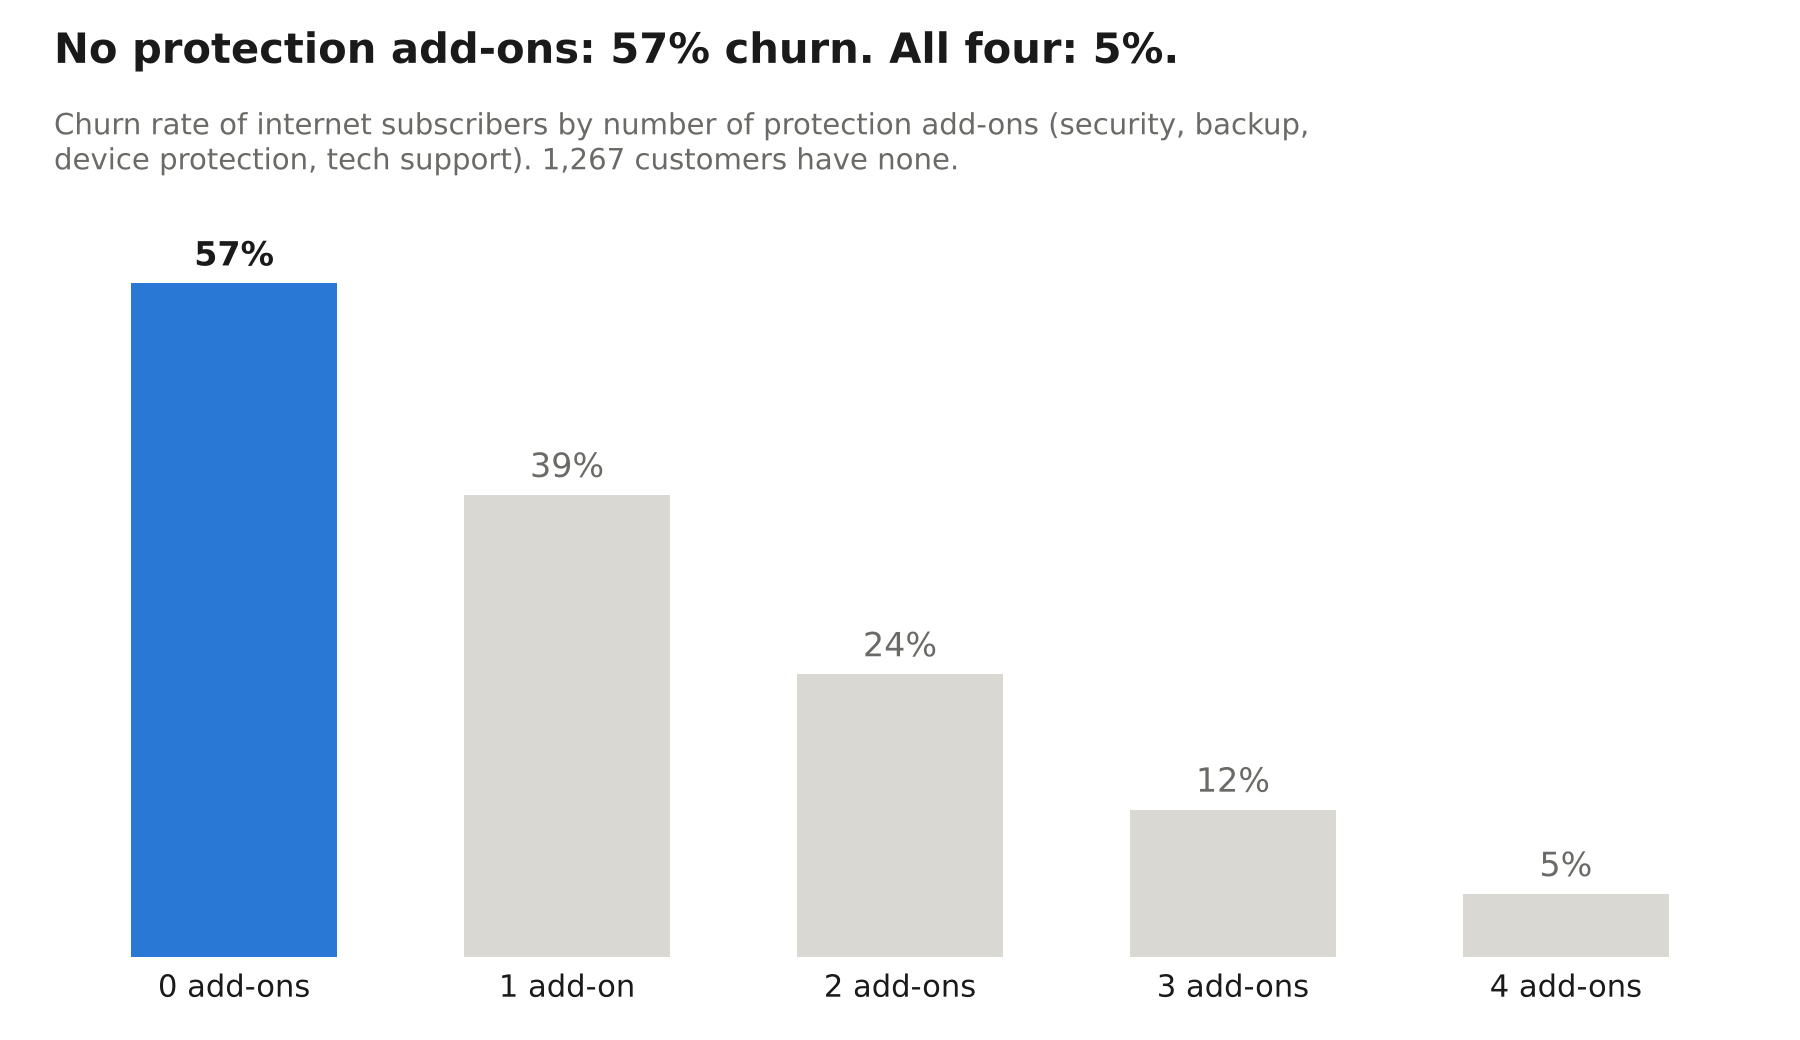
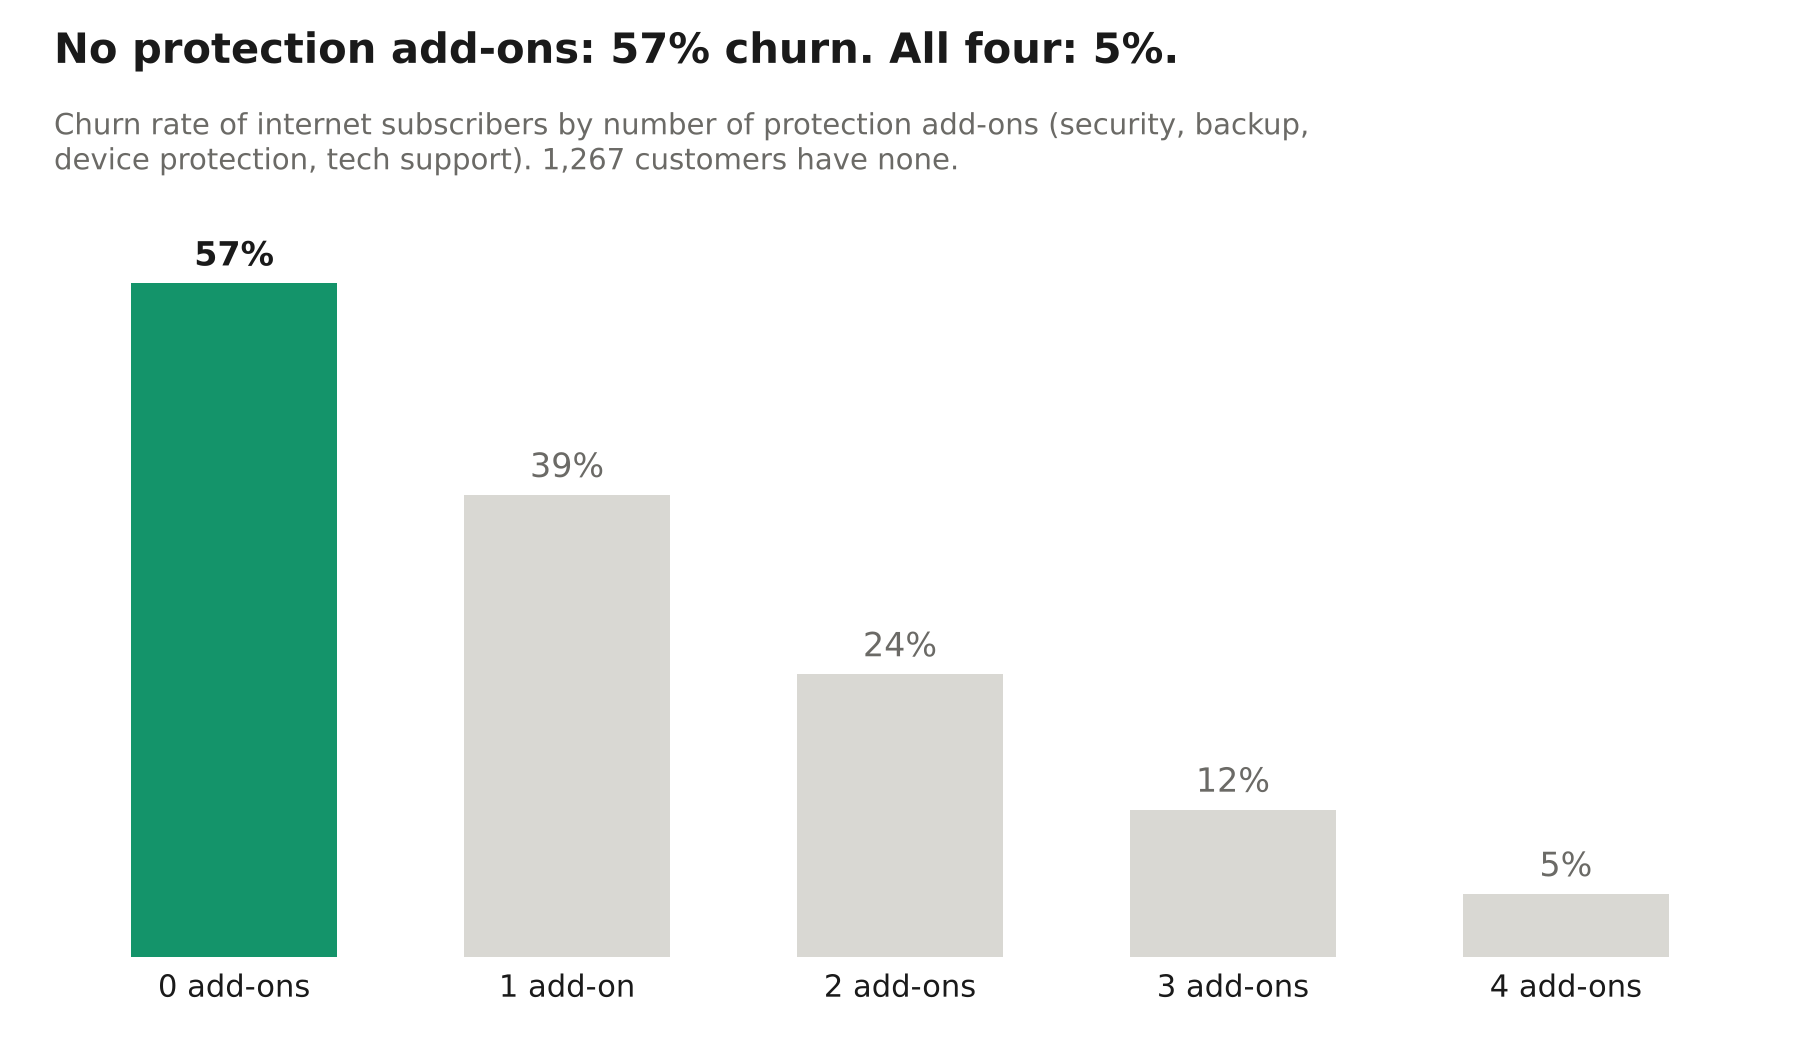
Use teal highlight colour in charts

Changed region(s): [[0.0622, 0.2462, 0.1867, 0.9231]]

diff --git a/scripts/make_charts.py b/scripts/make_charts.py
@@ -9,7 +9,7 @@ ROOT = Path(__file__).resolve().parents[1]
 RES, OUT = ROOT / "results", ROOT / "charts"
 OUT.mkdir(exist_ok=True)
 SURFACE, INK, INK2 = "#ffffff", "#1a1a1a", "#6b6a66"
-HIGHLIGHT, CONTEXT = "#2a78d6", "#d9d8d3"
+HIGHLIGHT, CONTEXT = "#14946a", "#d9d8d3"
 plt.rcParams.update({"font.family": "DejaVu Sans", "font.size": 11, "text.color": INK,
                      "figure.facecolor": SURFACE, "axes.facecolor": SURFACE})
 
